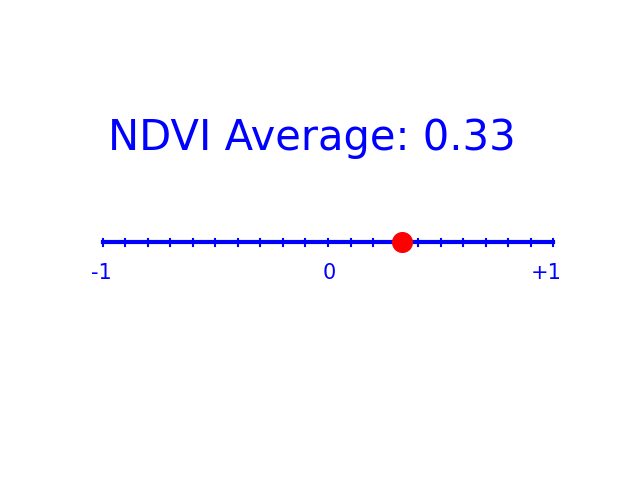
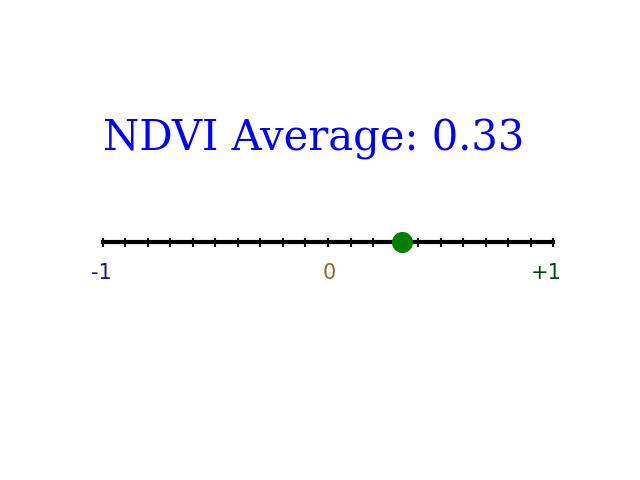
working code

Changed region(s): [[0.1562, 0.25, 0.8125, 0.3438], [0.1562, 0.4688, 0.875, 0.5938], [0.1562, 0.5625, 0.1875, 0.5938]]

diff --git a/ndvi.py b/ndvi.py
@@ -5,6 +5,7 @@
 import rasterio as rio
 from rasterio import plot
 import matplotlib.pyplot as plt
+import matplotlib.image as mpimg
 import numpy as np  
 from matplotlib.colors import ListedColormap
 import earthpy.plot as ep
@@ -46,19 +47,33 @@ def ndvi(files_path):
     remove_bg = ndvi[(ndvi<0) | (ndvi>0)]
     average_ndvi = np.sum(remove_bg)/remove_bg.size
     average_ndvi = round(average_ndvi, 2)
-    fig3 = plt.figure()
-    plt.ylim([1,3])
-    plt.plot([-1, 1], [2, 2], color='blue', linewidth=3)
-    for i in np.arange(-1,1.1,0.1):
-        plt.plot([i, i], [1.98, 2.02], color='blue', linewidth=1.5)   
-    plt.scatter(average_ndvi, 2, s=200, color='red',alpha=1, zorder=3)
-    plt.text(-0.975, 2.5, 'NDVI Average: %.2f'%average_ndvi, color='blue', fontsize=30)
-    plt.text(-1.05, 1.8, '-1', color='blue', fontsize=15)
-    plt.text(0.9, 1.8, '+1', color='blue', fontsize=15)
-    plt.text(-0.025, 1.8, '0', color='blue', fontsize=15)
-    plt.axis('off')
-    plt.savefig("static/Results/result_ndvi.png")
 
+    def result():
+        fig3 = plt.figure()
+        plt.ylim([1,3])
+        plt.plot([-1, 1], [2, 2], color='black', linewidth=3)
+        for i in np.arange(-1,1.1,0.1):
+            plt.plot([i, i], [1.98, 2.02], color='black', linewidth=1.5)   
+        plt.scatter(average_ndvi, 2, s=200, color='green',alpha=1, zorder=3)
+        plt.text(-1, 2.5, 'NDVI Average: %.2f'%average_ndvi, color='blue', fontsize=30, fontfamily="serif")
+        plt.text(-1.05, 1.8, '-1', color='#13128f', fontsize=15)
+        plt.text(0.9, 1.8, '+1', color='#004610', fontsize=15)
+        plt.text(-0.025, 1.8, '0', color='#926829', fontsize=15)
+        plt.axis('off')
+        plt.savefig("static/Results/result_ndvi.png")
+        plt.close()
+    result()
+
+    fig4 = plt.figure(figsize=(10,7))
+    ax = fig4.add_subplot(1, 2, 1)
+    image1 = mpimg.imread("static/Results/result_ndvi.png")
+    imgplot = plt.imshow(image1)
+    plt.axis('off')
+    ax = fig4.add_subplot(1, 2, 2)
+    image2 = mpimg.imread("static/reference.jpg")
+    imgplot = plt.imshow(image2)
+    plt.axis('off')
+    plt.savefig("static/Results/result.png")
 
     ndvi_class_bins = [-1.0, -0.5, 0, 0.000000001, 0.2, 0.4, 0.6, 0.8, 1.0]
     ndvi_landsat_class = np.digitize(ndvi, ndvi_class_bins)
@@ -105,5 +120,5 @@ def ndvi(files_path):
     plt.tight_layout()
     plt.savefig('static/Results/ndvi.png')
     plt.close()
-    return ["static/Results/RBG.png","static/Results/False_Color.png", "static/Results/ndvi.png","static/Results/result_ndvi.png"]
+    return ["static/Results/RBG.png","static/Results/False_Color.png", "static/Results/ndvi.png","static/Results/result.png"]
 
